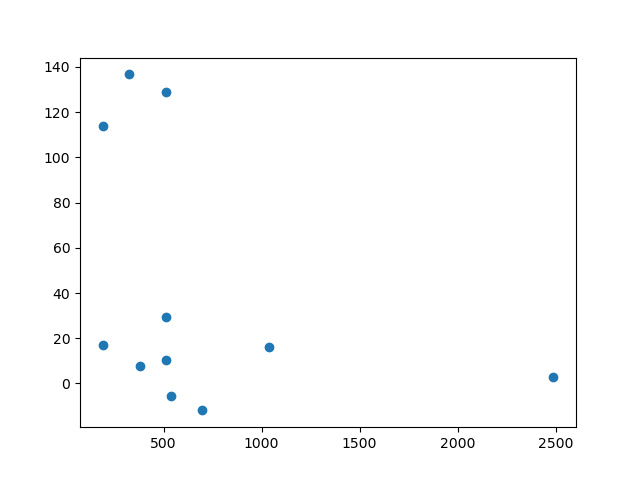
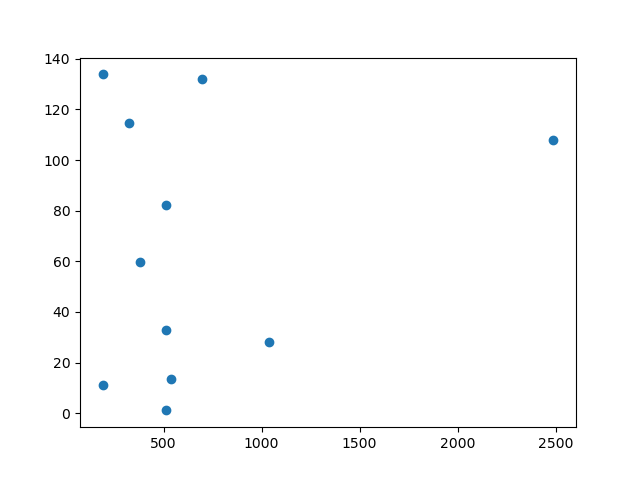
fixed tilt plot

diff --git a/tools/iglesias/compare_all_prop.py b/tools/iglesias/compare_all_prop.py
@@ -192,18 +192,18 @@ for d in df_fil['date']:
             y1 = np.array(y1).astype(float)[0]
             y1 += correct_ang(np.median(y1),np.median(gcs_val), do=do_tilt_corr)
             plt.plot(x1, y1, 'sk', label='FIL')
-            gcs_vs_fil_all.append([gcs_val[arcade_ind_to_use], y1])
-            gcs_times = np.concatenate((gcs_times, x1), axis=None)
-            gcs_val = np.concatenate((gcs_val, y1), axis=None)
+            gcs_vs_fil_all.append([gcs_val[arcade_ind_to_use], y1, d_str])
+            #gcs_times = np.concatenate((gcs_times, x1), axis=None)
+            #gcs_val = np.concatenate((gcs_val, y1), axis=None)
         x2 = df_ar.loc[df_ar['ar_time_tilt'].dt.date == d.date(), 'ar_time_tilt']
         y2 = df_ar.loc[df_ar['ar_time_tilt'].dt.date == d.date(), 'ar_tilt']
         if len(y2) > 0:
             y2 = np.array(y2).astype(float)[0]
             y2 += correct_ang(np.median(y2),np.median(gcs_val), do=do_tilt_corr)
             plt.plot(x2, y2, '^k', label='AR')
-            gcs_vs_ar_val.append([gcs_val[arcade_ind_to_use], y2])
-            gcs_times = np.concatenate((gcs_times, [i.to_pydatetime() for i in x2]), axis=None)
-            gcs_val = np.concatenate((gcs_val, y2), axis=None)       
+            gcs_vs_ar_val.append([gcs_val[arcade_ind_to_use], y2, d_str])
+            #gcs_times = np.concatenate((gcs_times, [i.to_pydatetime() for i in x2]), axis=None)
+            #gcs_val = np.concatenate((gcs_val, y2), axis=None)       
         #adds arcade mean titls
         x3 = df_arcades.loc[df_arcades['date'].dt.date == d.date(), 'date']
         y3 = np.array(df_arcades.loc[df_arcades['date'].dt.date == d.date(), 'tilt mean [deg]']).astype(float)
@@ -223,14 +223,14 @@ for d in df_fil['date']:
                 gcs_param = np.nanmean(gcs_param)
                 diff_gcs_param_all.append(float(gcs_param))
                 plt.plot(x3, y3, 'ok', label='Arcades')
-                gcs_vs_arcades_all.append([gcs_val[arcade_ind_to_use], y3[arcade_ind_to_use]])            
+                gcs_vs_arcades_all.append([gcs_val[arcade_ind_to_use], y3[arcade_ind_to_use], d_str])            
             else:
                 diff_gcs_param_all.append(None)
                 gcs_vs_arcades_all.append([None, None]) 
                 print('No gcs_lat_vel for date...' + d_str)
                 pass
-        ind = np.argsort(gcs_times)
-        gcs_times = gcs_times[ind]
+        #ind = np.argsort(gcs_times)
+        #gcs_times = gcs_times[ind]
         #gcs_val = gcs_val[ind]
         #plt.plot(gcs_times, gcs_val, '--k')
         plt.title(str(d))
@@ -245,14 +245,29 @@ for d in df_fil['date']:
         plt.savefig(opath+'/'+d_str+'_'+gcs_key+'_ang_corr'+str(do_tilt_corr)+'.png')
         plt.close()
 
-gcs_vs_fil_all = np.array(gcs_vs_fil_all)
-gcs_vs_ar_val = np.array(gcs_vs_ar_val)
-gcs_vs_arcades_all = np.array(gcs_vs_arcades_all)
-plt.scatter(gcs_vs_fil_all[:, 1], gcs_vs_fil_all[:, 0], color='b', label='gcs vs fil')
-plt.scatter(gcs_vs_ar_val[:, 1], gcs_vs_ar_val[:, 0], color='r', label='gcs vs ar')
-plt.scatter(gcs_vs_arcades_all[:, 1], gcs_vs_arcades_all[:, 0], color='g', label='gcs vs arcades')
+#scatter plots
+gcs_vs_ar_val_arr = np.array(gcs_vs_ar_val)[:,0:2].astype(float)
+gcs_vs_fil_all_arr = np.array(gcs_vs_fil_all)[:,0:2].astype(float)
+gcs_vs_arcades_all_arr = np.array(gcs_vs_arcades_all)[:,0:2].astype(float)
+
+plt.scatter(gcs_vs_ar_val_arr[:, 1], gcs_vs_ar_val_arr[:, 0], color='r', label='gcs vs ar')
+plt.scatter(gcs_vs_fil_all_arr[:, 1], gcs_vs_fil_all_arr[:, 0], color='b', label='gcs vs fil')
+plt.scatter(gcs_vs_arcades_all_arr[:, 1], gcs_vs_arcades_all_arr[:, 0], color='g', label='gcs vs arcades')
+
+# annotate dates in each point
+# for i, txt in enumerate(gcs_vs_ar_val):
+#     plt.annotate(txt[2], (gcs_vs_ar_val_arr[i, 1], gcs_vs_ar_val_arr[i, 0]))
+# for i, txt in enumerate(gcs_vs_fil_all):
+#     plt.annotate(txt[2], (gcs_vs_fil_all_arr[i, 1], gcs_vs_fil_all_arr[i, 0]))
+for i, txt in enumerate(gcs_vs_arcades_all):
+    plt.annotate(txt[2], (gcs_vs_arcades_all_arr[i, 1], gcs_vs_arcades_all_arr[i, 0]))
+
 plt.xlabel('fil/ar/arcade [deg]')
 plt.ylabel('gcs [deg]')  
+# grid for minor ticks behind the plot
+plt.minorticks_on()
+plt.grid(which='both')
+plt.tight_layout()
 #plt.xlim([-110, 110])
 #plt.ylim([-110, 110])
 plt.legend()
